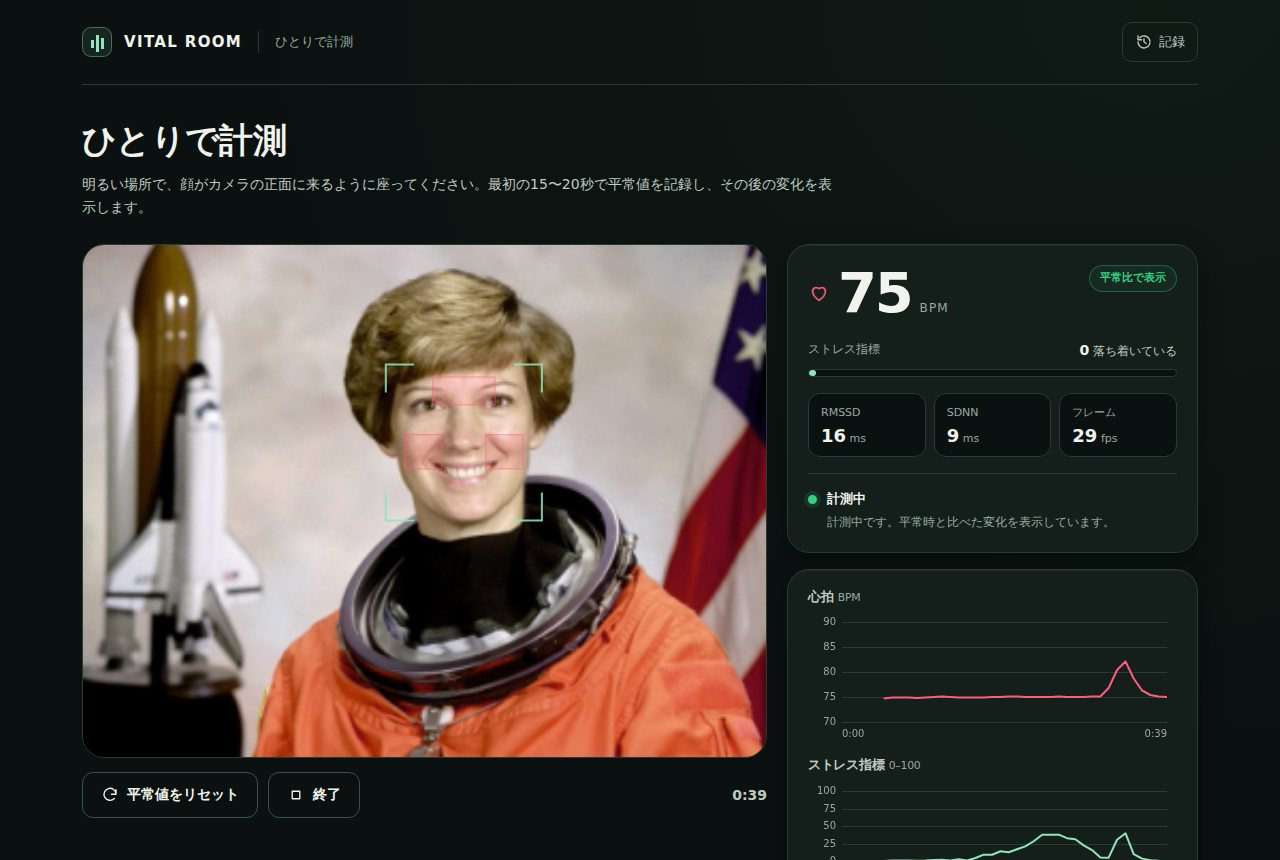
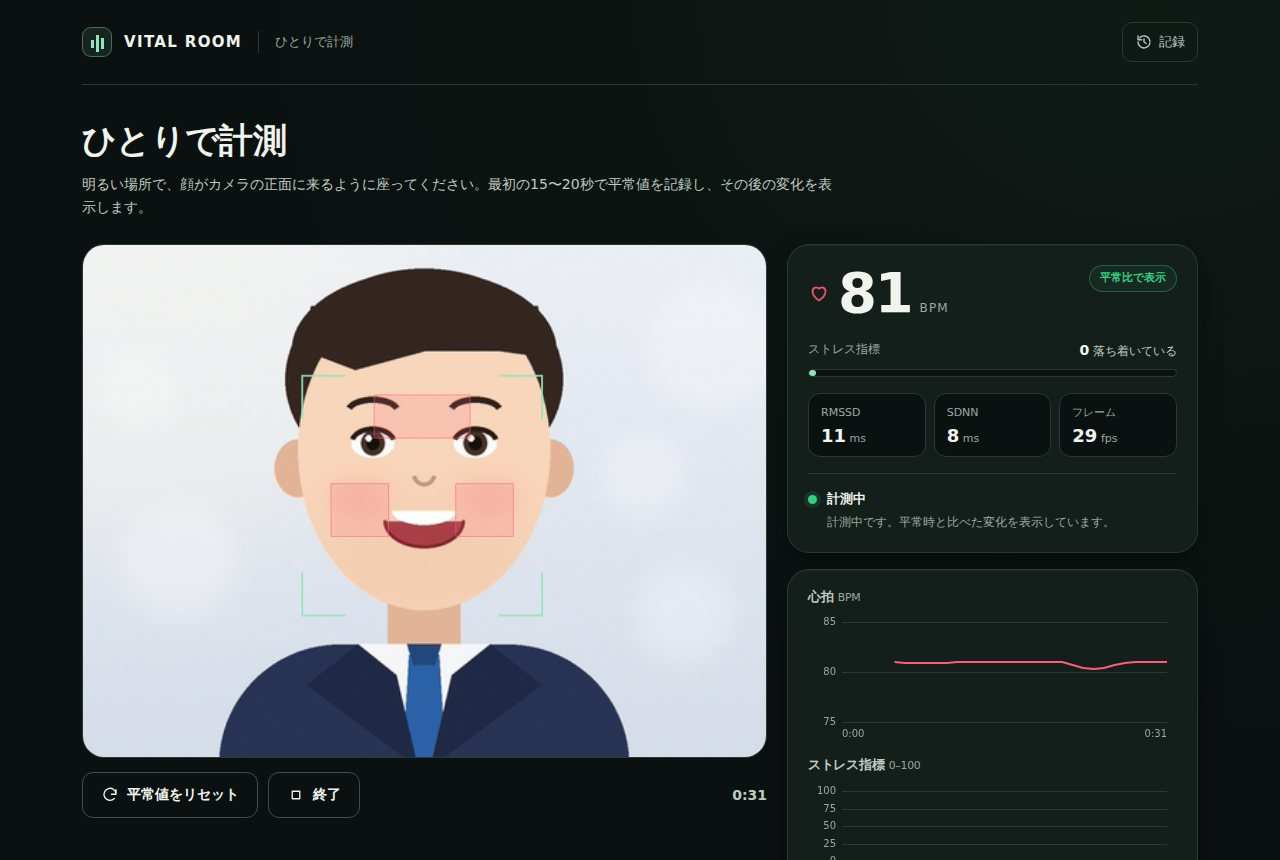
docs: フル版（チーム開発）と Web 版を並べて紹介し、見本の映像をイラストに
- README: フル版が本体、Web 版は追加の版であることと、2 つの版の違いを明記
- Web 版のホームに、フル版（チーム開発）へのリンクを追加
- スクリーンショットのカメラ映像を、写真からイラストの人物に変更

diff --git a/vital-room/web/js/screens/home.js b/vital-room/web/js/screens/home.js
@@ -51,6 +51,9 @@ export function mount(root) {
         h('li', null, h('b', null, '心拍と変動を求める'), h('span', null, '周波数解析で心拍数を、拍の間隔から RMSSD・SDNN を計算します。')),
         h('li', null, h('b', null, '平常時と比べる'), h('span', null, '最初の平常値を基準に、心拍の上昇と RMSSD の低下からストレス指標を出します。')))),
     h('footer', { class: 'site-foot' },
-      h('p', null, 'Harinezumi AI Hack チームで開発した VITAL ROOM を、サーバーなしでブラウザーだけで動くように移植した Web 版です。企業向けの面接管理や AI 音声などの機能は、リポジトリのフル版（Next.js + FastAPI）で利用できます。'),
-      h('p', null, h('a', { href: 'https://github.com/haru-ki417/Harinezumi-AI-Hack', target: '_blank', rel: 'noopener' }, 'GitHub でソースを見る'))));
+      h('p', null, 'このページは、チーム「Life & Medical Hackers」で開発した VITAL ROOM（フル版：Next.js + FastAPI）をもとに、計測と面接練習をサーバーなしで動くように移植した Web 版です。企業向けの面接管理・応募者の招待・面接の集計などは、フル版の機能です。'),
+      h('p', null,
+        h('a', { href: 'https://github.com/haru-ki417/Harinezumi-AI-Hack/tree/main/vital-room', target: '_blank', rel: 'noopener' }, 'フル版（チームで開発）を見る'),
+        ' ・ ',
+        h('a', { href: 'https://github.com/haru-ki417/Harinezumi-AI-Hack/tree/main/vital-room/web', target: '_blank', rel: 'noopener' }, 'Web 版のソース'))));
 }

diff --git a/vital-room/web/README.md b/vital-room/web/README.md
@@ -2,8 +2,20 @@
 
 **公開ページ: https://haru-ki417.github.io/Harinezumi-AI-Hack/**
 
-VITAL ROOM の計測・練習機能を、サーバーなしでブラウザーだけで動くように移植した版です。
+チーム「Life & Medical Hackers」で開発した **VITAL ROOM（フル版）** をもとに、計測と面接練習の機能をサーバーなしでブラウザーだけで動くように移植した、**追加の版** です。
 スマホ・タブレット・パソコンでページを開くだけで使えます（インストール・登録不要）。
+フル版のコード（`vital-room/frontend`・`vital-room/backend`）には手を加えていません。
+
+## 2 つの版
+
+| | フル版（チームで開発） | Web 版（このフォルダー） |
+|---|---|---|
+| 置き場所 | `vital-room/frontend`（Next.js）・`vital-room/backend`（FastAPI） | `vital-room/web`（ビルド不要の静的サイト） |
+| 動かし方 | サーバーを起動する（[使い方](../README.md#クイックスタート)） | ページを開くだけ |
+| 心拍の計算 | サーバー（Python） | 端末のブラウザー（Python 版を JavaScript に移植） |
+| 企業向けの面接管理・応募者の招待・集計 | あり（[企業向け面接の使い方](../INTERVIEWS.md)） | なし |
+| AI 面接 | あり（AI の音声・文章は外部の AI を使う設定も可） | あり（端末内の規則で深掘りと振り返り。読み上げはブラウザーの音声） |
+| 2 人のルーム | あり（サーバー経由） | あり（P2P で直接） |
 
 ![ホーム](docs/screenshots/home.jpg)
 
@@ -15,7 +27,7 @@ VITAL ROOM の計測・練習機能を、サーバーなしでブラウザーだ
 |---|---|
 | ![振り返り](docs/screenshots/ai-feedback.jpg) | ![スマートフォン](docs/screenshots/phone.jpg) |
 
-※ スクリーンショットのカメラ映像は、動作確認用に NASA のパブリックドメイン写真から作った合成映像（脈拍 75 BPM を埋め込んだもの）です。
+※ スクリーンショットのカメラ映像は、動作確認用に描いたイラストの人物に脈拍（81・69 BPM）を埋め込んだ合成映像です。実在の人物ではありません。
 
 ## できること
 
@@ -64,7 +76,7 @@ python3 -m http.server 8080    # http://localhost:8080 で確認（カメラは 
 
 - 医療機器ではありません。値は照明・動き・カメラの性能の影響を受ける参考値です。
 - 2人とも厳しいファイアウォールの内側にいると P2P 接続できないことがあります（TURN サーバーは使っていません）。その場合はモバイル回線などでお試しください。
-- 企業向けの面接管理・招待、AI 音声（OpenAI）などはフル版（`frontend/` + `backend/`）の機能です。
+- 企業向けの面接管理・招待などはフル版（`frontend/` + `backend/`）の機能です（上の「2 つの版」）。
 
 ## 公開
 

diff --git a/vital-room/README.md b/vital-room/README.md
@@ -3,9 +3,9 @@
 企業による対人・AI面接、応募者別の招待、根拠付きの面接集計については
 [企業向け面接の使い方](INTERVIEWS.md)を参照してください。企業画面は `/company`、応募者の参加画面は `/interviews/join` です。
 
-> **ブラウザーだけで試せる Web 版**: https://haru-ki417.github.io/Harinezumi-AI-Hack/
-> サーバー不要でスマホ・タブレット・パソコンから使えます（ひとりで計測・2人のルーム練習・AI面接練習）。
-> 信号処理と面接ロジックを JavaScript に移植したもので、詳細は [web/README.md](web/README.md) を参照してください。
+> このフォルダーの本体は、チームで開発した **フル版**（`frontend/` の Next.js と `backend/` の FastAPI）です。
+> あわせて、フル版の信号処理と面接ロジックを JavaScript に移植した **サーバー不要の Web 版**（`web/`）も置いています。
+> Web 版はブラウザーですぐ試せます: https://haru-ki417.github.io/Harinezumi-AI-Hack/ （2 つの版の違いは [web/README.md](web/README.md#2-つの版)）
 
 Webカメラ映像から **rPPG (remote photoplethysmography)** で心拍数(BPM)・
 心拍変動(HRV)・ストレスの目安をリアルタイム推定し、**全員が同意した上で**

diff --git a/README.md b/README.md
@@ -1,4 +1,8 @@
 # Harinezumi-AI-Hack
 
-- **VITAL ROOM**（[vital-room/](vital-room/)）— 非接触バイタル（rPPG）を同意のうえで共有しながら面接・面接練習ができるワークスペース。
-- **Web 版をブラウザーで開く**: https://haru-ki417.github.io/Harinezumi-AI-Hack/ （インストール不要・スマホ対応。[説明](vital-room/web/README.md)）
+チーム「Life & Medical Hackers」で開発した **VITAL ROOM** のリポジトリです。
+
+- **VITAL ROOM（フル版）** — [vital-room/](vital-room/)
+  非接触バイタル（rPPG）を同意のうえで共有しながら、対人面接・AI 面接ができる面接ワークスペース。Next.js（`frontend/`）と FastAPI（`backend/`）で動きます。
+- **VITAL ROOM Web 版** — [vital-room/web/](vital-room/web/) ・ https://haru-ki417.github.io/Harinezumi-AI-Hack/
+  フル版の計測と面接練習を、サーバーなしでブラウザーだけで動くように移植した追加の版。インストール不要でスマホからも試せます。
